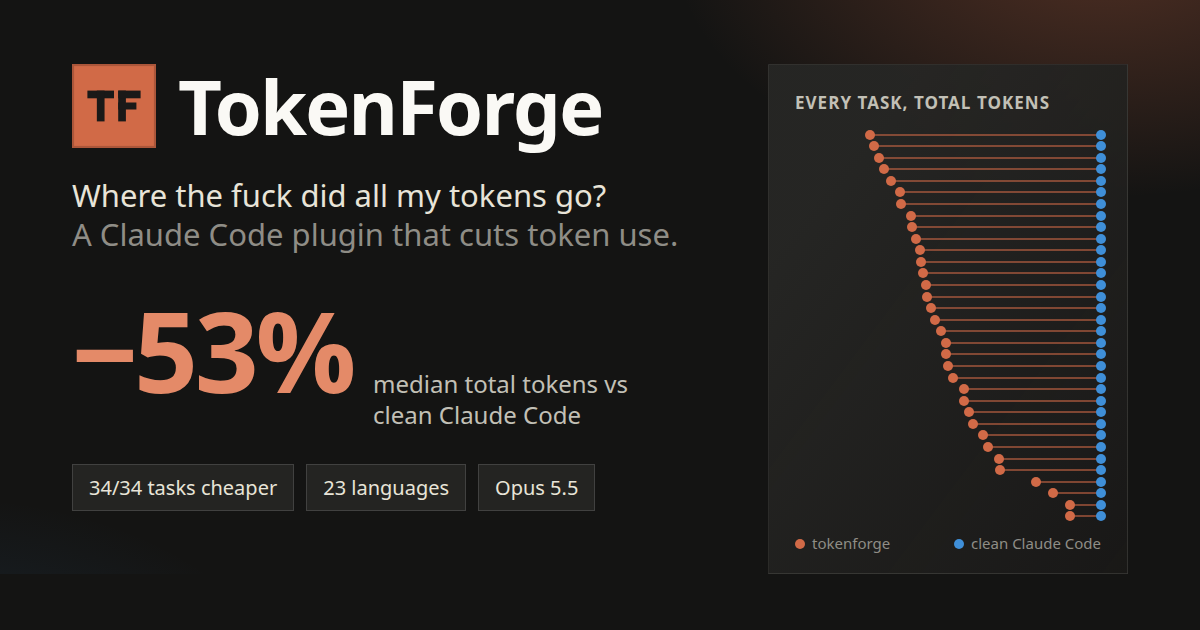
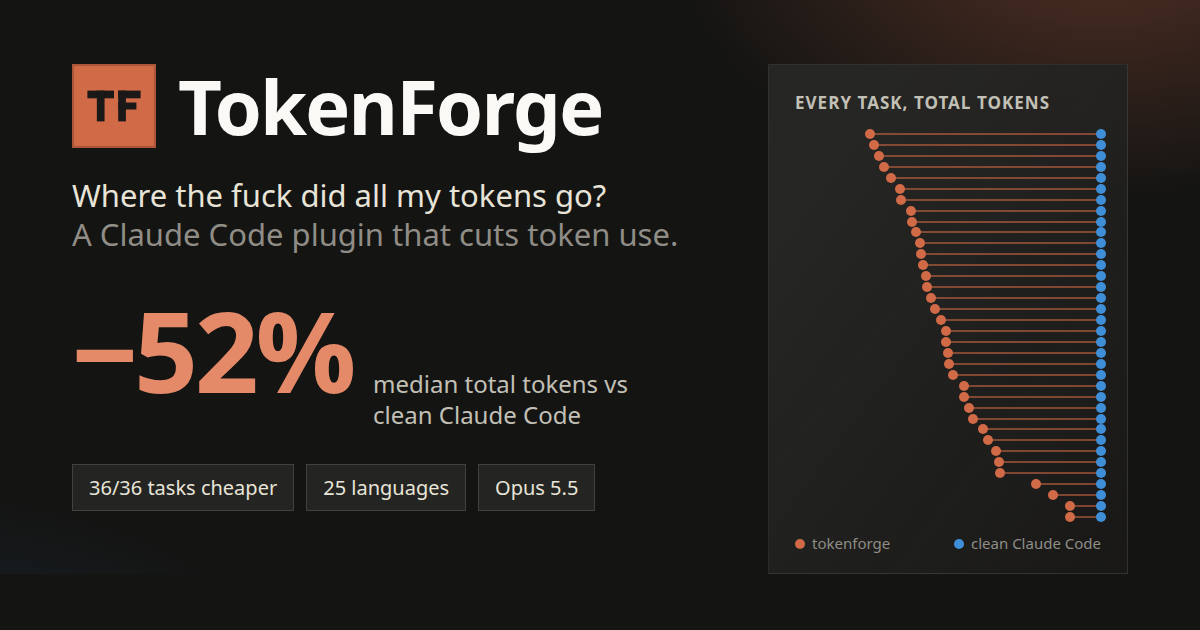
Site: academic tasks (proofreading, PDF Q&A), 36 tasks; 0.8.0

Changed region(s): [[0.7092, 0.2111, 0.925, 0.8444], [0.1542, 0.5127, 0.2158, 0.6333], [0.0617, 0.754, 0.1233, 0.7841]]

diff --git a/src/charts/dumbbell.ts b/src/charts/dumbbell.ts
@@ -51,15 +51,15 @@ export function dumbbellChart(box: HTMLElement, group: Task['group']): void {
 }
 
 export function resultsTable(group?: Task['group'], full = false): string {
-  const groups: Task['group'][] = group ? [group] : ['scratch', 'existing'];
+  const groups: Task['group'][] = group ? [group] : ['scratch', 'existing', 'academic'];
   const head = full
     ? '<th>Task</th><th>Language</th><th class="num">Runs (clean / tf)</th><th class="num">Clean Claude Code</th><th class="num">tokenforge</th><th class="num">Saved</th><th class="num">Price-weighted</th><th class="num">Requests</th><th class="num">Quality</th>'
     : '<th>Task</th><th class="num">Clean Claude Code</th><th class="num">tokenforge</th><th class="num">Saved</th><th class="num">Quality</th>';
   const cols = full ? 9 : 5;
   const body = groups.map((gname) => {
     const ts = data.tasks.filter((t) => t.group === gname).sort((a, b) => b.savings - a.savings);
-    const med = gname === 'scratch' ? data.aggregate.scratchMedian : data.aggregate.existingMedian;
-    const title = gname === 'scratch' ? `Built from scratch · median −${Math.round(med)}%` : `In an existing codebase · median −${Math.round(med)}%`;
+    const med = gname === 'scratch' ? data.aggregate.scratchMedian : gname === 'academic' ? data.aggregate.academicMedian : data.aggregate.existingMedian;
+    const title = `${gname === 'scratch' ? 'Built from scratch' : gname === 'academic' ? 'Academic work' : 'In an existing codebase'} · median −${Math.round(med)}%`;
     const rows = ts.map((t) => {
       const q = `${t.native.quality} → ${t.tokenforge.quality}`;
       const qcell = t.qualityDiff < 0 ? `<span class="qdown" title="lower quality score">${q} ▼</span>` : q;

diff --git a/src/data.ts b/src/data.ts
@@ -3,7 +3,7 @@ import raw from './data/bench.json';
 
 export interface Side { total: number; inputEq: number; requests: number; toolCalls: number; firstContext: number; quality: number; output: number }
 export interface Task {
-  id: string; group: 'scratch' | 'existing'; label: string; short: string; title: string; category: string; language: string;
+  id: string; group: 'scratch' | 'existing' | 'academic'; label: string; short: string; title: string; category: string; language: string;
   runs: { native: number; tokenforge: number }; native: Side; tokenforge: Side;
   savings: number; savingsPriceWeighted: number; qualityDiff: number;
 }
@@ -14,7 +14,7 @@ export interface BenchData {
   aggregate: {
     tasks: number; runs: number; medianSavings: number; meanSavings: number; pooledSavings: number; minSavings: number; maxSavings: number;
     medianPriceWeighted: number; medianToolCallReduction: number; tasksCheaper: number; tasksCostlier: number; firstRequestOverhead: number;
-    scratchMedian: number; existingMedian: number; scratchTasks: number; existingTasks: number; qualityWorse: string[];
+    scratchMedian: number; existingMedian: number; scratchTasks: number; existingTasks: number; academicTasks: number; academicMedian: number; qualityWorse: string[];
   };
   lean: { level: string; tokens: number }[];
   curve: { task: string; label: string; title: string; series: { native: Series; tokenforge: Series } };

diff --git a/src/pages/home.ts b/src/pages/home.ts
@@ -91,6 +91,8 @@ export function home(view: HTMLElement): void {
       <div class="chart-box" id="db-scratch"></div>
       <h3 style="margin-top:26px">In an existing codebase · median −${Math.round(a.existingMedian)}%</h3>
       <div class="chart-box" id="db-existing"></div>
+      <h3 style="margin-top:26px">Academic work · median −${Math.round(a.academicMedian)}%</h3>
+      <div class="chart-box" id="db-academic"></div>
       <details class="data"><summary>Data table: all ${a.tasks} tasks</summary>${resultsTable()}</details>
     </article>
     <p class="pcap">${a.tasks} tasks, ${a.scratchTasks} from-scratch projects in ${scratchLangs} languages. ${MODEL_NAME} on both sides, checked in every API response. Medians of 1–3 runs per side.${worse.length ? ` Quality was lower on ${worse.length === 1 ? 'one task' : `${worse.length} tasks`} (${worse.map((t) => t.label).join(', ')}): every hidden test passes, the structural checks score lower.` : ''} <a href="#/benchmark">Method and caveats →</a></p>
@@ -153,6 +155,7 @@ export function home(view: HTMLElement): void {
   leanChart(view.querySelector('#lean-chart') as HTMLElement);
   dumbbellChart(view.querySelector('#db-scratch') as HTMLElement, 'scratch');
   dumbbellChart(view.querySelector('#db-existing') as HTMLElement, 'existing');
+  dumbbellChart(view.querySelector('#db-academic') as HTMLElement, 'academic');
 }
 
 const LEVELS = [

diff --git a/index.html b/index.html
@@ -60,7 +60,7 @@
   <div class="main">
     <main id="view" tabindex="-1"></main>
     <footer class="foot">
-      <span>TokenForge 0.7.3 · MIT licensed · <a href="https://github.com/chteau/tokenforge">github.com/chteau/tokenforge</a></span>
+      <span>TokenForge 0.8.0 · MIT licensed · <a href="https://github.com/chteau/tokenforge">github.com/chteau/tokenforge</a></span>
       <span class="muted">Every number on this site comes from the plugin repo's <code>bench/</code> data and README.</span>
     </footer>
   </div>
